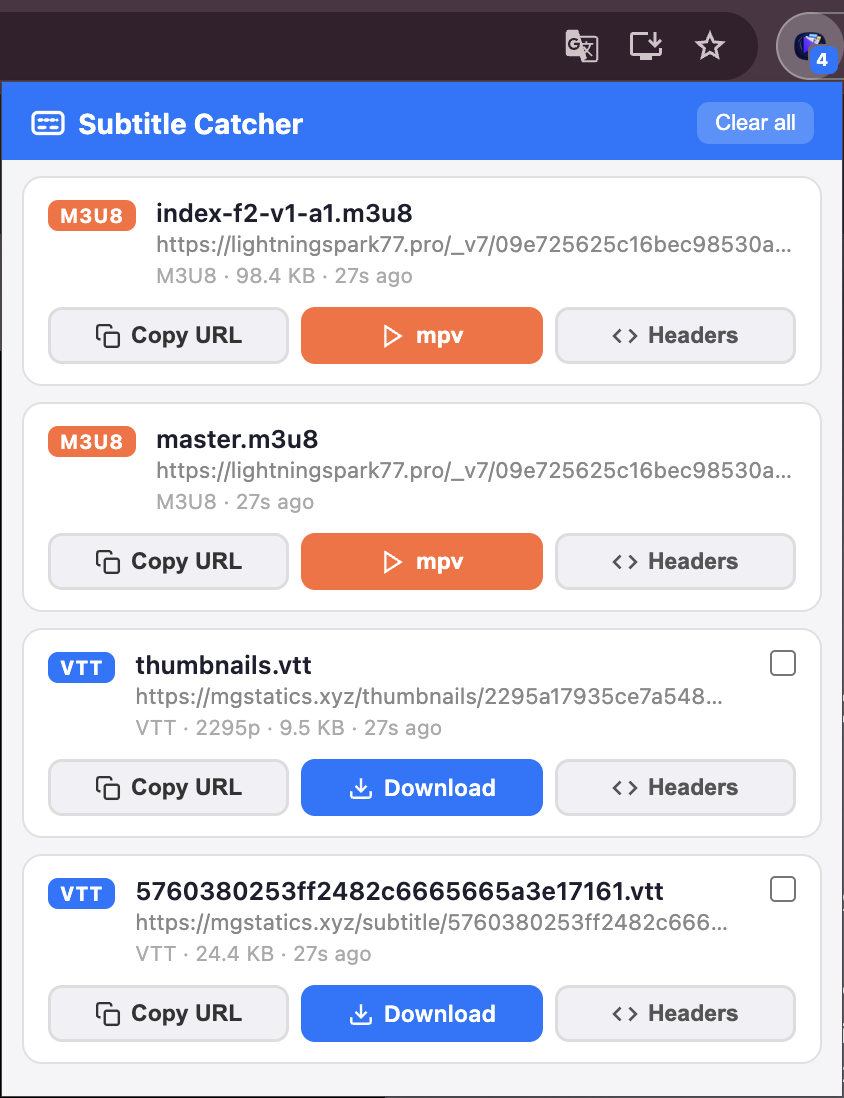
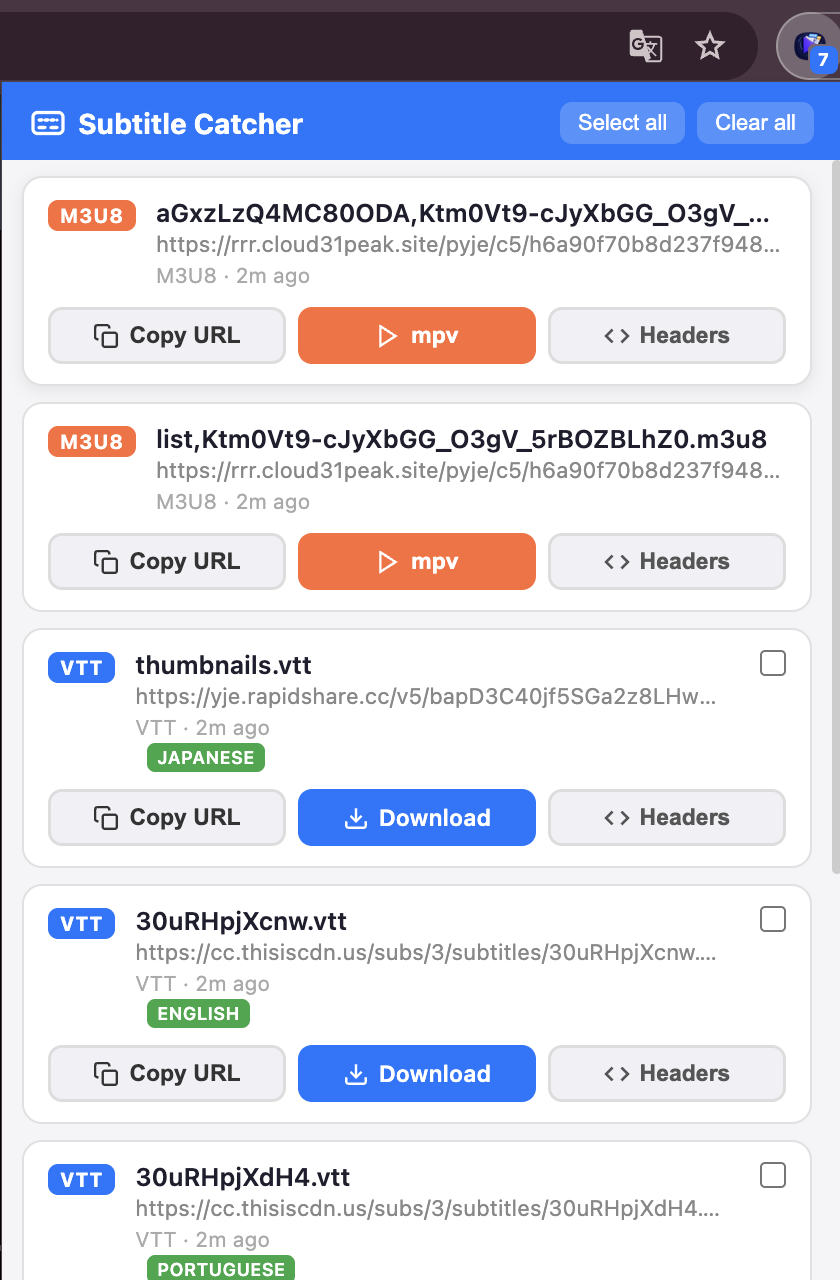
Add select all subtitles button and automatic language detection
Features:
- Add 'Select all' toggle button to quickly select/deselect all subtitles
- Implement automatic subtitle language detection using Chrome's CLD API
- Display detected language as green badge on subtitle cards
- Fix duplicate item display issue by using URL-based unique IDs
- Fix ITEM_DETECTED message to send correct item data

Technical:
- Use chrome.i18n.detectLanguage() for language detection
- Parse SRT, VTT, ASS formats to extract plain text for detection
- Cache detected languages to avoid re-fetching
- Support 60+ language code to name mappings

diff --git a/popup.js b/popup.js
@@ -2,11 +2,121 @@
 // Subtitle Catcher — Popup Script
 // ============================================================
 
+// Language code to name mapping
+const LANGUAGE_NAMES = {
+  'en': 'English', 'es': 'Spanish', 'fr': 'French', 'de': 'German', 'it': 'Italian',
+  'pt': 'Portuguese', 'ru': 'Russian', 'ja': 'Japanese', 'ko': 'Korean', 'zh': 'Chinese',
+  'ar': 'Arabic', 'hi': 'Hindi', 'tr': 'Turkish', 'pl': 'Polish', 'nl': 'Dutch',
+  'sv': 'Swedish', 'da': 'Danish', 'no': 'Norwegian', 'fi': 'Finnish', 'el': 'Greek',
+  'he': 'Hebrew', 'th': 'Thai', 'vi': 'Vietnamese', 'id': 'Indonesian', 'ms': 'Malay',
+  'cs': 'Czech', 'sk': 'Slovak', 'hu': 'Hungarian', 'ro': 'Romanian', 'bg': 'Bulgarian',
+  'uk': 'Ukrainian', 'hr': 'Croatian', 'sr': 'Serbian', 'sl': 'Slovenian', 'et': 'Estonian',
+  'lv': 'Latvian', 'lt': 'Lithuanian', 'fa': 'Persian', 'ur': 'Urdu', 'bn': 'Bengali',
+  'ta': 'Tamil', 'te': 'Telugu', 'ml': 'Malayalam', 'kn': 'Kannada', 'mr': 'Marathi',
+  'gu': 'Gujarati', 'pa': 'Punjabi', 'sw': 'Swahili', 'af': 'Afrikaans', 'ca': 'Catalan',
+  'eu': 'Basque', 'gl': 'Galician', 'hy': 'Armenian', 'ka': 'Georgian', 'mn': 'Mongolian',
+  'ne': 'Nepali', 'si': 'Sinhala', 'km': 'Khmer', 'lo': 'Lao', 'my': 'Burmese',
+  'am': 'Amharic', 'zu': 'Zulu', 'xh': 'Xhosa', 'yo': 'Yoruba', 'ig': 'Igbo',
+  'ha': 'Hausa', 'tl': 'Filipino', 'jv': 'Javanese', 'su': 'Sundanese', 'mg': 'Malagasy',
+  'nb': 'Norwegian Bokmål', 'nn': 'Norwegian Nynorsk', 'zh-cn': 'Chinese (Simplified)', 
+  'zh-tw': 'Chinese (Traditional)', 'pt-br': 'Portuguese (Brazil)', 'pt-pt': 'Portuguese (Portugal)',
+  'es-419': 'Spanish (Latin America)', 'en-gb': 'English (UK)', 'en-us': 'English (US)'
+};
+
+// Cache for detected languages
+const languageCache = new Map();
+
+// Detect language from subtitle content
+async function detectSubtitleLanguage(url, headers = {}) {
+  if (languageCache.has(url)) {
+    return languageCache.get(url);
+  }
+  
+  try {
+    // Fetch first ~5KB of subtitle file for language detection
+    const fetchHeaders = new Headers();
+    Object.entries(headers).forEach(([k, v]) => fetchHeaders.set(k, v));
+    
+    const response = await fetch(url, { 
+      method: 'GET',
+      headers: fetchHeaders,
+      signal: AbortSignal.timeout(5000)
+    });
+    
+    if (!response.ok) return null;
+    
+    const text = await response.text();
+    
+    // Extract text content from subtitle formats (remove timestamps, indices, tags)
+    const contentText = extractSubtitleText(text);
+    
+    if (!contentText || contentText.length < 20) return null;
+    
+    // Use Chrome's built-in language detection API
+    const result = await chrome.i18n.detectLanguage(contentText.substring(0, 2000));
+    
+    if (result?.languages?.length > 0) {
+      const detected = result.languages[0];
+      if (detected.percentage > 50) {
+        const langCode = detected.language.toLowerCase();
+        languageCache.set(url, langCode);
+        return langCode;
+      }
+    }
+    
+    return null;
+  } catch (e) {
+    console.warn('Language detection failed:', e);
+    return null;
+  }
+}
+
+// Extract plain text from subtitle content (SRT, VTT, ASS, etc.)
+function extractSubtitleText(rawText) {
+  let text = rawText;
+  
+  // Remove WebVTT header
+  text = text.replace(/^WEBVTT.*?\n\n/gis, '');
+  
+  // Remove SRT/VTT timestamp lines (e.g., "00:00:01,000 --> 00:00:04,000" or "00:00:01.000 --> 00:00:04.000")
+  text = text.replace(/\d{1,2}:\d{2}:\d{2}[,.]\d{3}\s*-->\s*\d{1,2}:\d{2}:\d{2}[,.]\d{3}[^\n]*/g, '');
+  
+  // Remove numeric indices (SRT format)
+  text = text.replace(/^\d+\s*$/gm, '');
+  
+  // Remove ASS/SSA style tags and headers
+  text = text.replace(/\{\\[^}]+\}/g, '');
+  text = text.replace(/^\[Script Info\].*?\n\n/gis, '');
+  text = text.replace(/^\[V4\+? Styles\].*?\n\n/gis, '');
+  text = text.replace(/^Format:.*$/gm, '');
+  text = text.replace(/^Style:.*$/gm, '');
+  text = text.replace(/^Dialogue:.*?,/gm, '');
+  
+  // Remove HTML/VTT tags
+  text = text.replace(/<[^>]+>/g, '');
+  
+  // Remove cue settings (VTT)
+  text = text.replace(/position:\d+%.*$/gm, '');
+  
+  // Remove extra whitespace and empty lines
+  text = text.replace(/\s+/g, ' ').trim();
+  
+  return text;
+}
+
+// Get display name for language code
+function getLanguageName(code) {
+  if (!code) return null;
+  const normalized = code.toLowerCase();
+  return LANGUAGE_NAMES[normalized] || LANGUAGE_NAMES[normalized.split('-')[0]] || code.toUpperCase();
+}
+
 (async () => {
   const container = document.getElementById('list-container');
   const stateEmpty = document.getElementById('state-empty');
   const stateLoading = document.getElementById('state-loading');
   const btnClear = document.getElementById('btn-clear');
+  const btnSelectAll = document.getElementById('btn-select-all');
   const toast = document.getElementById('toast');
 
   const [tab] = await chrome.tabs.query({ active: true, currentWindow: true });
@@ -53,10 +163,39 @@
       container.querySelectorAll('.sub-card').forEach(c => c.remove());
       streamItems = {};
       subtitleItems = {};
+      languageCache.clear();
+      updateSelectAllButton();
       showEmpty();
       showToast('Cleared');
     });
   });
+
+  // Select all subtitles functionality
+  btnSelectAll.addEventListener('click', () => {
+    const checkboxes = container.querySelectorAll('.sub-card[data-kind="subtitle"] input[type="checkbox"]');
+    const allChecked = Array.from(checkboxes).every(cb => cb.checked);
+    
+    checkboxes.forEach(cb => {
+      cb.checked = !allChecked;
+    });
+    
+    updateSelectAllButton();
+    showToast(allChecked ? 'All subtitles deselected' : 'All subtitles selected');
+  });
+
+  function updateSelectAllButton() {
+    const checkboxes = container.querySelectorAll('.sub-card[data-kind="subtitle"] input[type="checkbox"]');
+    const subtitleCount = checkboxes.length;
+    
+    if (subtitleCount === 0) {
+      btnSelectAll.style.display = 'none';
+    } else {
+      btnSelectAll.style.display = 'block';
+      const allChecked = Array.from(checkboxes).every(cb => cb.checked);
+      btnSelectAll.textContent = allChecked ? 'Deselect all' : 'Select all';
+      btnSelectAll.classList.toggle('all-selected', allChecked);
+    }
+  }
 
   // ── Render helpers ────────────────────────────────────────
 
@@ -94,14 +233,19 @@
   }
 
   function appendCard(id, item) {
-    if (container.querySelector(`[data-id="${CSS.escape(id)}"]`)) return;
+    // Use URL-based ID to prevent duplicates from same-timestamp items
+    const urlHash = item.url?.slice(-50) || Math.random().toString(36);
+    const uniqueId = `${id}-${urlHash.replace(/[^a-zA-Z0-9]/g, '')}`;
+    
+    if (container.querySelector(`[data-id="${CSS.escape(uniqueId)}"]`)) return;
 
     stateEmpty.style.display = 'none';
     stateLoading.style.display = 'none';
 
     const card = document.createElement('div');
     card.className = 'sub-card';
-    card.dataset.id = id;
+    card.dataset.id = uniqueId;
+    card.dataset.timestamp = item.timestamp;
     card.dataset.kind = item.kind || 'subtitle';
 
     const sizeTxt = formatSize(item.size);
@@ -162,7 +306,7 @@
         </button>` : ''}
       </div>
       ${hasHeaders ? `
-      <div class="headers-panel" id="hp-${escHtml(id)}">
+      <div class="headers-panel" id="hp-${escHtml(uniqueId)}">
 ${buildHeadersText(item.headers)}
       </div>` : ''}
     `;
@@ -178,11 +322,10 @@ ${buildHeadersText(item.headers)}
         const selectedSubs = Array.from(container.querySelectorAll('.sub-card[data-kind="subtitle"] input[type="checkbox"]:checked'))
           .map(cb => {
             const subCard = cb.closest('.sub-card');
-            const subId = subCard?.dataset.id;
-            if (!subId) return null;
+            const timestamp = subCard?.dataset.timestamp;
+            if (!timestamp) return null;
             
-            // Find the subtitle item by matching timestamp in the ID
-            const timestamp = subId.replace('sub-', '');
+            // Find the subtitle item by matching timestamp
             const foundItem = Object.values(subtitleItems).find(s => String(s.timestamp) === timestamp);
             return foundItem || null;
           })
@@ -202,7 +345,7 @@ ${buildHeadersText(item.headers)}
 
     if (hasHeaders) {
       card.querySelector('[data-action="headers"]')?.addEventListener('click', () => {
-        const panel = document.getElementById(`hp-${id}`);
+        const panel = document.getElementById(`hp-${uniqueId}`);
         if (panel) panel.classList.toggle('visible');
       });
 
@@ -223,10 +366,33 @@ ${buildHeadersText(item.headers)}
       checkbox.type = 'checkbox';
       checkbox.style.cssText = 'margin-left: 8px; cursor: pointer;';
       checkbox.title = 'Include in mpv command';
+      checkbox.addEventListener('change', updateSelectAllButton);
       card.querySelector('.card-main').appendChild(checkbox);
+      
+      // Add language detection for subtitles
+      const langBadge = document.createElement('span');
+      langBadge.className = 'badge-language';
+      langBadge.style.cssText = 'background: #28a745; color: #fff; font-size: 9px; font-weight: 600; padding: 2px 5px; border-radius: 4px; margin-left: 6px; text-transform: uppercase; opacity: 0; transition: opacity 0.2s;';
+      langBadge.textContent = '...';
+      card.querySelector('.card-info').appendChild(langBadge);
+      
+      // Detect language asynchronously
+      detectSubtitleLanguage(item.url, item.headers).then(langCode => {
+        if (langCode) {
+          const langName = getLanguageName(langCode);
+          langBadge.textContent = langName || langCode.toUpperCase();
+          langBadge.title = `Detected language: ${langName || langCode}`;
+          langBadge.style.opacity = '1';
+        } else {
+          langBadge.remove();
+        }
+      }).catch(() => {
+        langBadge.remove();
+      });
     }
 
     container.appendChild(card);
+    updateSelectAllButton();
   }
 
   // ── Toast notification ────────────────────────────────────

diff --git a/popup.html b/popup.html
@@ -38,7 +38,11 @@
       gap: 6px;
     }
     .header-title svg { flex-shrink: 0; }
-    .btn-clear {
+    .header-actions {
+      display: flex;
+      gap: 6px;
+    }
+    .btn-select-all, .btn-clear {
       background: rgba(255,255,255,0.2);
       border: none;
       color: #fff;
@@ -48,7 +52,8 @@
       cursor: pointer;
       transition: background 0.15s;
     }
-    .btn-clear:hover { background: rgba(255,255,255,0.35); }
+    .btn-select-all:hover, .btn-clear:hover { background: rgba(255,255,255,0.35); }
+    .btn-select-all.all-selected { background: rgba(255,255,255,0.45); }
 
     /* ── Scroll container ────────────────────────────────── */
     #list-container {
@@ -222,7 +227,10 @@
     </svg>
     Subtitle Catcher
   </div>
-  <button class="btn-clear" id="btn-clear">Clear all</button>
+  <div class="header-actions">
+    <button class="btn-select-all" id="btn-select-all" title="Select all subtitles">Select all</button>
+    <button class="btn-clear" id="btn-clear">Clear all</button>
+  </div>
 </div>
 
 <div id="list-container">

diff --git a/service-worker.js b/service-worker.js
@@ -314,12 +314,12 @@ chrome.webRequest.onResponseStarted.addListener(
       ...metadata
     };
     
-    const savedItems = await queuedSave(key, requestId, itemData);
+    await queuedSave(key, requestId, itemData);
     
     await updateBadge(tabId);
 
-    // Try to notify popup
-    chrome.runtime.sendMessage({ cmd: 'ITEM_DETECTED', tabId, item: items[requestId] }, () => {
+    // Try to notify popup with the actual item data
+    chrome.runtime.sendMessage({ cmd: 'ITEM_DETECTED', tabId, item: itemData }, () => {
       // Ignore errors (popup may be closed)
       chrome.runtime.lastError;
     });

diff --git a/README.md b/README.md
@@ -38,9 +38,11 @@ This extension solves that by:
 
 - ✅ Detects HLS/m3u8 streams automatically
 - ✅ Captures subtitle files (VTT, SRT, ASS, SSA, TTML, DFXP, etc.)
+- ✅ **Automatic language detection** for subtitles using Chrome's built-in CLD
 - ✅ Stores request headers (Referer, Origin, Cookie, User-Agent, etc.)
 - ✅ Generates mpv command with `--http-header-fields` and `--sub-file` options
 - ✅ Select multiple subtitles to include in one command
+- ✅ **"Select all" button** to quickly select/deselect all subtitles
 - ✅ Badge counter shows detected items per tab
 - ✅ Auto-cleanup on tab close/navigation
 
@@ -117,12 +119,22 @@ Or use IINA's GUI:
 
 | Button | Action |
 |--------|--------|
+| **Select all** | Toggle select/deselect all subtitle checkboxes |
 | **Copy URL** | Copy raw URL to clipboard |
 | **mpv** (stream) | Generate and copy mpv command with headers + selected subtitles |
 | **Download** (subtitle) | Direct download link |
 | **Headers** | Toggle header display panel |
 | **Headers (right-click)** | Copy curl command with headers |
 | **Clear all** | Remove all captured items for current tab |
+
+### Subtitle Language Detection
+
+The extension automatically detects the language of subtitle files by:
+1. Fetching a portion of the subtitle content
+2. Extracting plain text (removing timestamps, tags, formatting)
+3. Using Chrome's built-in Compact Language Detector (CLD)
+
+Detected languages are shown as a green badge on subtitle cards (e.g., "English", "Spanish", "Japanese").
 
 ---
 

diff --git a/SUBTITLE_GUIDE.md b/SUBTITLE_GUIDE.md
@@ -151,10 +151,14 @@ IINA uses mpv internally, so everything above works. Additional IINA features:
 
 1. **Extension popup shows:**
    - 🟠 Stream: `master.m3u8`
-   - 🔵 Subtitle: `english.vtt` ☑ (checked)
-   - 🔵 Subtitle: `spanish.srt` ☑ (checked)
+   - 🔵 Subtitle: `english.vtt` 🌐 English (detected) ☑
+   - 🔵 Subtitle: `spanish.srt` 🌐 Spanish (detected) ☑
 
-2. **Click mpv button → generates:**
+2. **Quick select with "Select all" button:**
+   - Click "Select all" to check all subtitle checkboxes at once
+   - Click again to deselect all
+
+3. **Click mpv button → generates:**
    ```bash
    mpv --http-header-fields='...' \
        --sub-file='https://.../english.vtt' \
@@ -162,7 +166,7 @@ IINA uses mpv internally, so everything above works. Additional IINA features:
        'https://.../master.m3u8'
    ```
 
-3. **Run command → mpv opens with:**
+4. **Run command → mpv opens with:**
    - Video playing
    - English subtitles visible by default
    - Press `j` → switches to Spanish
